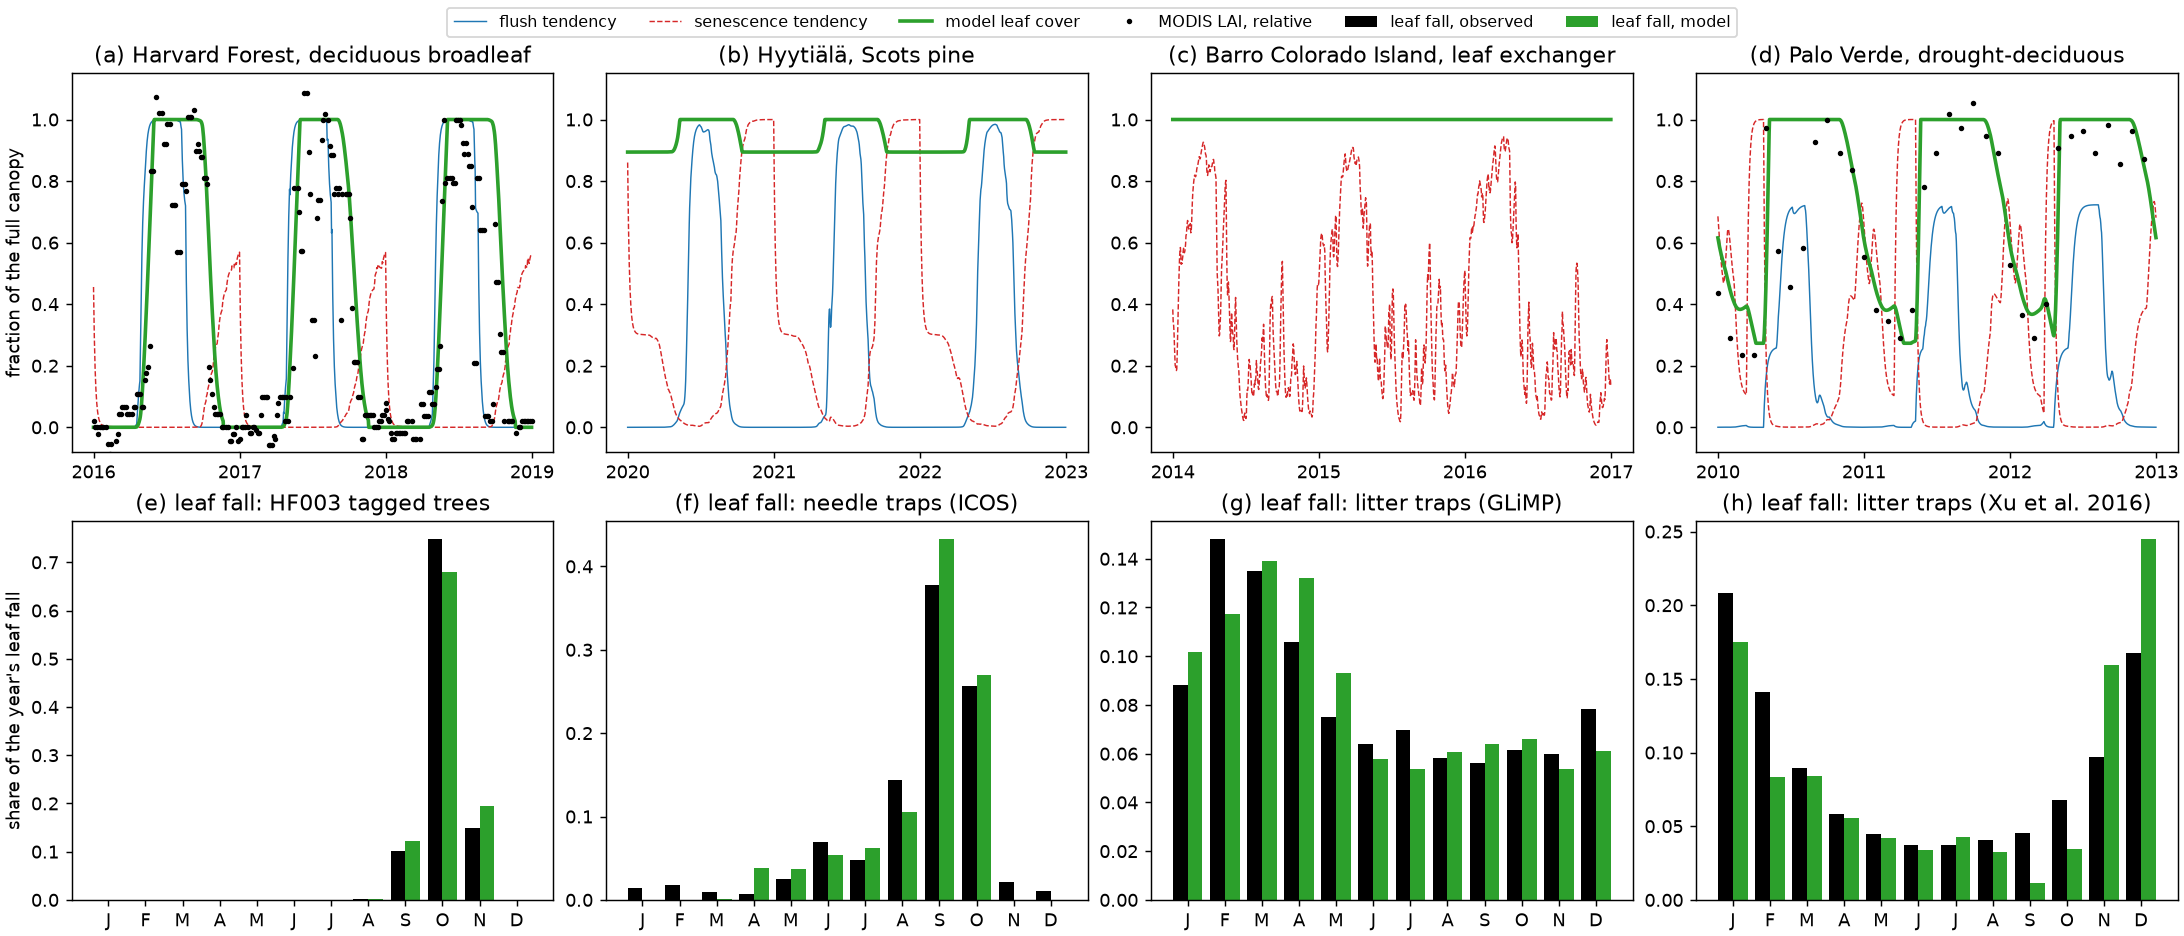
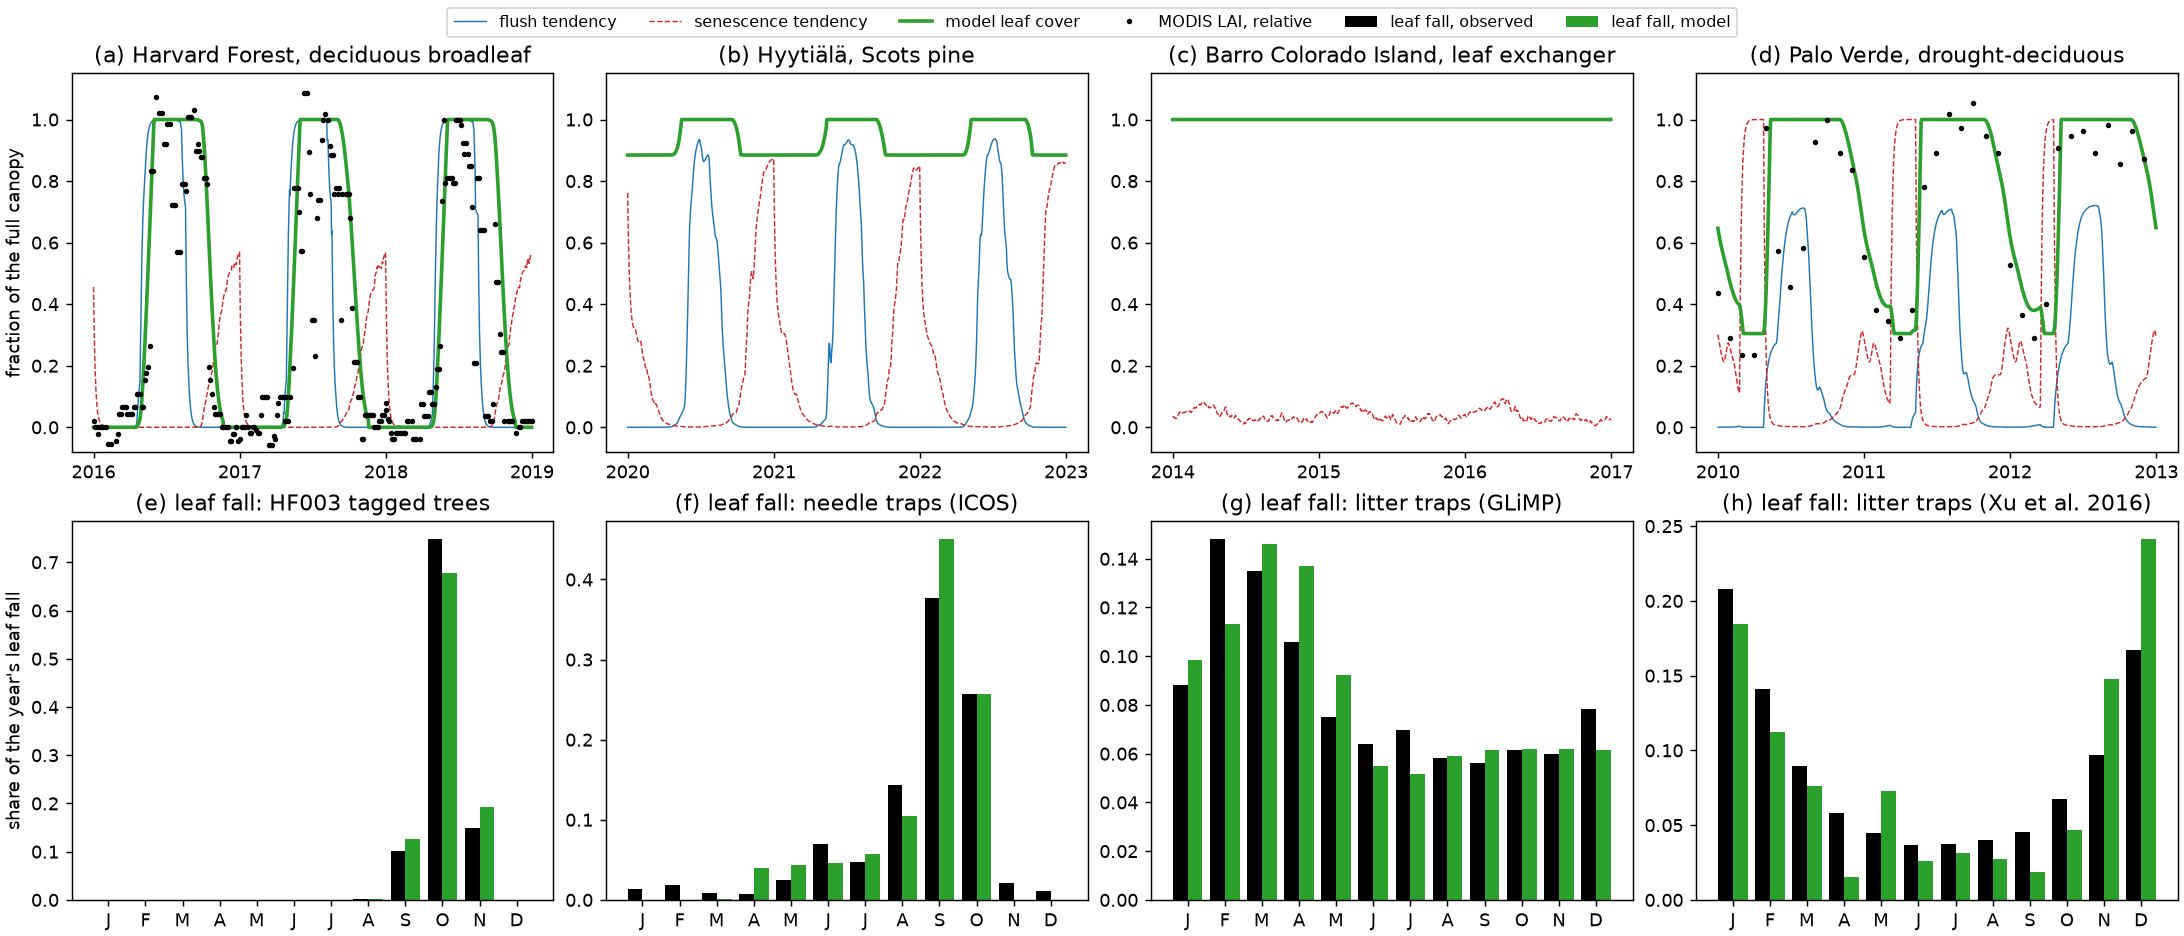
example02: refit the four sites under the leaf-drop turnover gate (#387)
With background turnover off while leaves drop, the old fits shed 0.60 canopies
a year at BCI (target 1.0) and 0.275 at Hyytiala (0.30). Refitted every site
(run_phenology.py --fit): leaf fall 1.01 / 0.30 / 1.00 / 1.00 canopies yr^-1;
BCI's cumulative-litter RMSE 0.071 -> 0.024, Hyytiala 0.069 -> 0.063, Harvard
Forest and Palo Verde about unchanged. BCI's background turnover rises to
1.70 yr^-1 (from 0.40), as it now runs only between the bright-season drops.
meds.plant.pheno's four presets take the new values.

diff --git a/python/meds/plant/pheno.py b/python/meds/plant/pheno.py
@@ -288,11 +288,11 @@ def temperate_deciduous(**overrides) -> Params:
     the hours of light are the day length), senesce on cold as the days shorten; no leaf-cover
     floor, so the canopy goes bare."""
     return _preset(dict(flush_cue_mask=Cue.TEMP | Cue.LIGHT, shed_cue_mask=Cue.TEMP | Cue.LIGHT,
-                        flush_rate_max=0.03333, shed_rate_max=0.3333,
-                        leaf_turnover_rate=1.72e-05, flush_degree_days=91.4,
-                        shed_base_temp=290.2, shed_degree_days=47.91,
-                        par_min=2.0, flush_light_hours=13.65, flush_light_sharpness=7.999,
-                        shed_light_hours=9.06, shed_light_sharpness=-1.0, light_window=1.0), overrides)
+                        flush_rate_max=0.03331, shed_rate_max=0.3333,
+                        leaf_turnover_rate=0.0001068, flush_degree_days=91.75,
+                        shed_base_temp=290.2, shed_degree_days=47.89,
+                        par_min=2.0, flush_light_hours=13.65, flush_light_sharpness=7.993,
+                        shed_light_hours=9.06, shed_light_sharpness=-1.0, light_window=1.001), overrides)
 
 
 def boreal_evergreen(**overrides) -> Params:
@@ -300,24 +300,24 @@ def boreal_evergreen(**overrides) -> Params:
     on cold as the bright hours dwindle in autumn; senescence stops at min_leaf_cover -- the
     needles kept -- so the canopy never goes bare."""
     return _preset(dict(flush_cue_mask=Cue.TEMP | Cue.LIGHT, shed_cue_mask=Cue.TEMP | Cue.LIGHT,
-                        flush_degree_days=88.0, shed_base_temp=288.3, shed_degree_days=8.39,
-                        flush_rate_max=0.2866, shed_rate_max=0.009217, leaf_turnover_rate=0.1886,
-                        min_leaf_cover=0.8942, par_min=99.38, flush_light_hours=13.78,
-                        flush_light_sharpness=1.414, shed_light_hours=11.0,
-                        shed_light_sharpness=-0.7859, light_window=7.494), overrides)
+                        flush_degree_days=88.0, shed_base_temp=287.9, shed_degree_days=5.0,
+                        flush_rate_max=0.2866, shed_rate_max=0.128, leaf_turnover_rate=0.1307,
+                        min_leaf_cover=0.8845, par_min=100.2, flush_light_hours=14.44,
+                        flush_light_sharpness=1.19, shed_light_hours=4.064,
+                        shed_light_sharpness=-0.4826, light_window=7.016), overrides)
 
 
 def drought_deciduous(**overrides) -> Params:
     """Drought-deciduous tropical forest (Palo Verde): flush once the predawn water potential has
     recovered while the days are long, senesce as the days shorten or after a long drought; the
-    canopy keeps about a quarter of its leaves through the dry season."""
+    canopy keeps about 30 % of its leaves through the dry season."""
     return _preset(dict(flush_cue_mask=Cue.WATER | Cue.LIGHT, shed_cue_mask=Cue.WATER | Cue.LIGHT,
-                        leaf_psi_tlp=-2.091, flush_water_sum=3.372, flush_water_sharpness=10.72,
-                        shed_water_sum=23.59, shed_water_sharpness=8.176,
-                        flush_rate_max=0.3137, shed_rate_max=0.01899, leaf_turnover_rate=0.702,
-                        min_leaf_cover=0.2731, par_min=5.004, flush_light_hours=12.38,
-                        flush_light_sharpness=7.999, shed_light_hours=11.44,
-                        shed_light_sharpness=-7.195, light_window=8.68), overrides)
+                        leaf_psi_tlp=-1.355, flush_water_sum=0.9694, flush_water_sharpness=20.0,
+                        shed_water_sum=34.55, shed_water_sharpness=8.139,
+                        flush_rate_max=0.2589, shed_rate_max=0.04334, leaf_turnover_rate=0.5269,
+                        min_leaf_cover=0.3045, par_min=5.155, flush_light_hours=12.37,
+                        flush_light_sharpness=7.481, shed_light_hours=11.16,
+                        shed_light_sharpness=-4.675, light_window=12.15), overrides)
 
 
 def light_exchanging(**overrides) -> Params:
@@ -326,10 +326,10 @@ def light_exchanging(**overrides) -> Params:
     canopy stays full."""
     return _preset(dict(flush_cue_mask=Cue.WATER, shed_cue_mask=Cue.LIGHT | Cue.WATER,
                         leaf_psi_tlp=-1.5, flush_water_sum=3.0, flush_water_sharpness=6.667,
-                        shed_water_sum=1.0, shed_water_sharpness=20.0, flush_rate_max=0.2352,
-                        shed_rate_max=0.004274, leaf_turnover_rate=0.3964,
-                        min_leaf_cover=0.9499, par_min=1081.0, shed_light_hours=5.204,
-                        shed_light_sharpness=1.845, light_window=2.837), overrides)
+                        shed_water_sum=1.0, shed_water_sharpness=20.0, flush_rate_max=0.02871,
+                        shed_rate_max=0.07069, leaf_turnover_rate=1.697,
+                        min_leaf_cover=0.8, par_min=1000.0, shed_light_hours=11.24,
+                        shed_light_sharpness=0.5734, light_window=2.232), overrides)
 
 
 def self_test() -> None:

diff --git a/examples/example02_canopy_phenology/README.md b/examples/example02_canopy_phenology/README.md
@@ -64,8 +64,8 @@ leaf fall, observed and modelled.
 
 | | Harvard Forest | Hyytiälä | Barro Colorado Island | Palo Verde |
 |---|---|---|---|---|
-| `par_min` [µmol m⁻² s⁻¹]: what it counts | 2: day length | 99: bright hours | 1081: strong sun | 5: day length |
-| `min_leaf_cover` | 0 | 0.89 | 0.95 | 0.27 |
+| `par_min` [µmol m⁻² s⁻¹]: what it counts | 2: day length | 100: bright hours | 1000: strong sun | 5: day length |
+| `min_leaf_cover` | 0 | 0.88 | 0.80 | 0.30 |
 | Leaves shed per year [canopies] | 1.0 | 0.30 | 1.0 | 1.0 |
 | Leaf lifespan [yr] | 0.4 | 3.1 | 1.0 | 0.8 |
 
@@ -73,7 +73,7 @@ leaf fall, observed and modelled.
   the leaves down, most of them in October. The day the canopy is half fallen is within 3 days of
   the tagged trees' on average, half green within 5 days of MODIS.
 - **Hyytiälä.** The needles fall in September–October as the bright hours dwindle, and the canopy
-  keeps 89 % of them through winter.
+  keeps 88 % of them through winter.
 - **Barro Colorado Island.** Senescence follows the bright dry season (January–April) while the
   flush keeps refilling the canopy: the leaves turn over, the canopy stays full. The traps catch
   all fine litter, so this one habit stands for the whole community.
